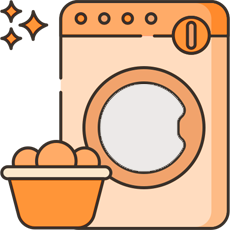
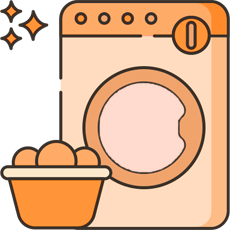
new

Changed region(s): [[0.4261, 0.3348, 0.8217, 0.7609]]

diff --git a/style-new.css b/style-new.css
@@ -1099,16 +1099,16 @@
 }
 
 @media (max-width: 570px) {
-
+    
     .care-new-grid {
         grid-template-columns: 1fr;
     }
-
+    
     .care-new-actions {
         flex-direction: column;
         align-items: center;
     }
-
+    
     .care-new-btn {
         width: 100%;
         max-width: 290px;
@@ -1124,6 +1124,15 @@
         object-fit: contain;
         object-position: unset;
         filter: none;
+    }
+}
+
+@media (max-width: 480px) {
+    .care-new-card {
+        display: flex;
+        flex-direction: column;
+        align-items: center;
+        text-align: center;
     }
 }
 
@@ -1935,7 +1944,7 @@
 }
 
 @media (max-width: 570px) {
-
+    
     .city-new-header {
         margin-bottom: 32px;
     }
@@ -1952,7 +1961,7 @@
         grid-column: 1;
         grid-row: auto;
     }
-
+    
     .city-new-mascot {
         min-height: 450px;
     }
@@ -1960,16 +1969,23 @@
     .city-new-tile {
         padding: 24px;
     }
-
+    
     .city-new-mascot {
         padding: 0;
     }
-
+    
     .city-new-value {
         justify-content: flex-start;
         padding: 16px 14px;
         font-size: .95rem;
         gap: 10px;
+    }
+}
+
+@media (max-width: 480px) {
+    .city-new-service {
+        align-items: center;
+        text-align: center;
     }
 }
 
@@ -2240,6 +2256,9 @@
         flex-direction: column;
         gap: 18px;
         padding: 26px 22px 30px;
+
+        align-items: center;
+        text-align: center;
     }
 
     .why-new-actions {
